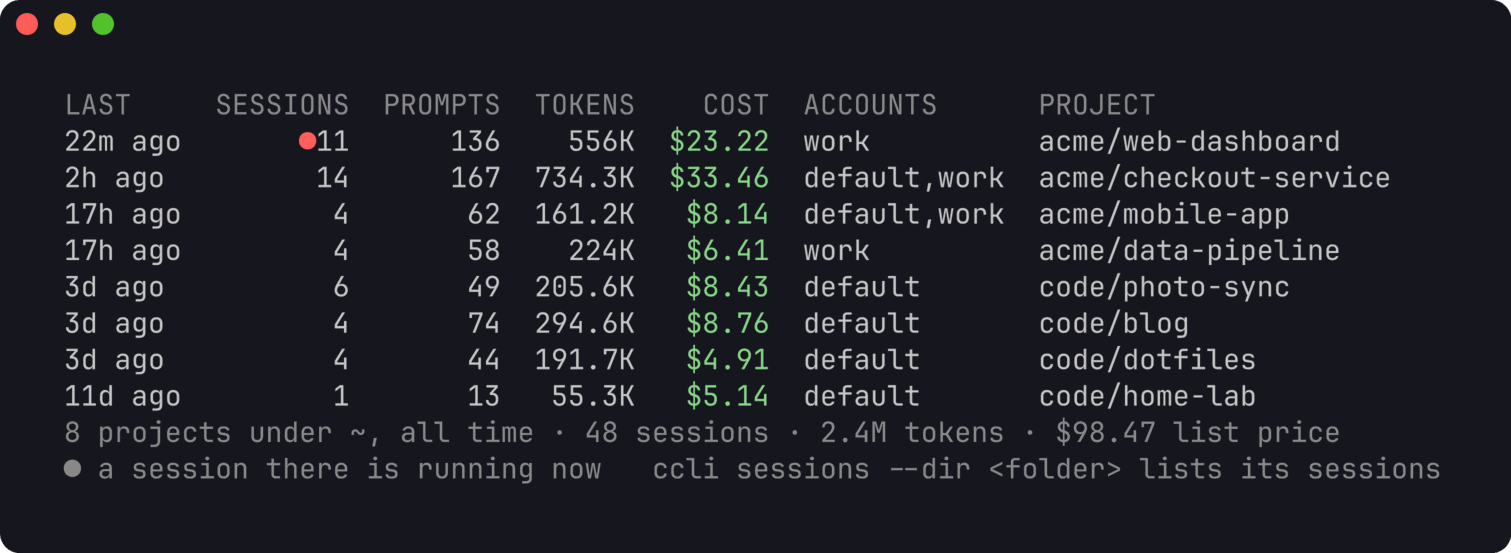
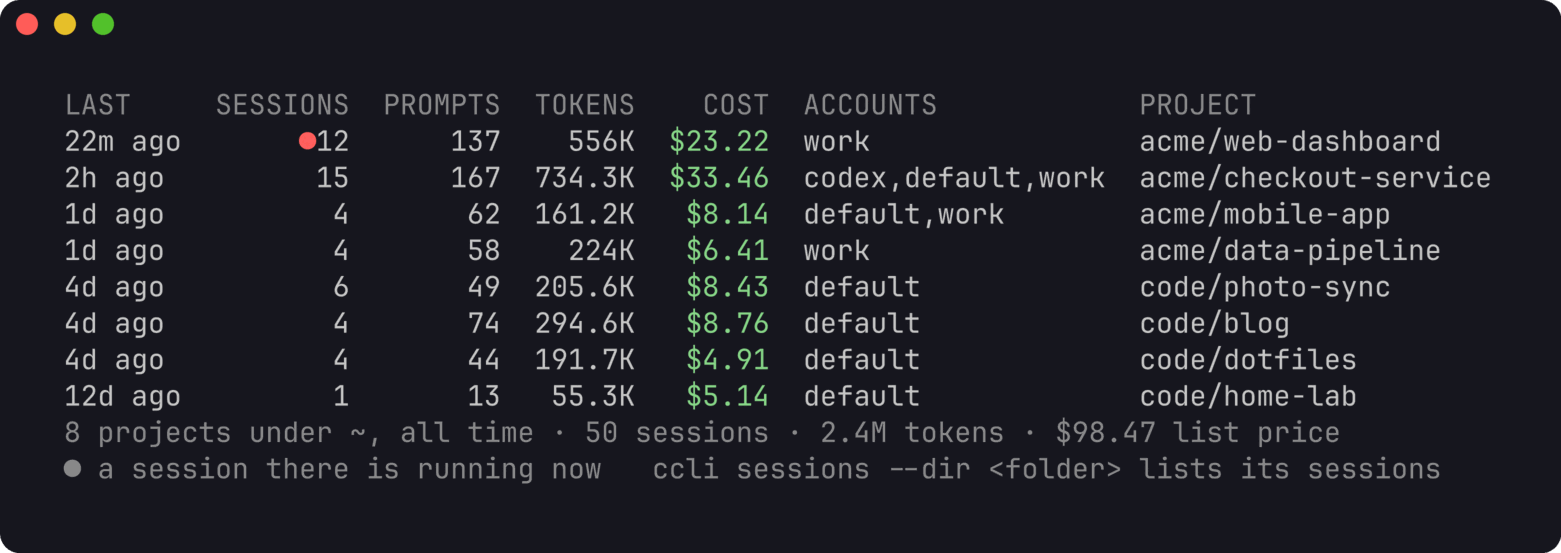
docs: describe ccli clean, with a screenshot from the demo home
The demo home gains two sessions that stopped at their first metadata
line, one whose prompt got no reply and an empty Codex thread, written
after every other session so the ids in the docs stay the same. The README,
tutorial and DESIGN.md describe clean and its rules; the projects sample and
image change with the demo home.

diff --git a/scripts/demo/main.go b/scripts/demo/main.go
@@ -219,8 +219,50 @@ func (g *gen) run(livePID int) error {
 		}))
 	}
 	g.codex()
+	g.empties()
 	fmt.Printf("wrote %d sessions under %s\n", len(all), g.home)
 	return nil
+}
+
+// empties writes sessions with nothing in them, for ccli clean: two that
+// stopped after their first metadata line, one whose prompt never got a
+// reply, and a Codex thread that never got a message. Each file carries the
+// time its session stopped, so it counts as idle. They draw from a source of
+// their own, so every session above keeps its id.
+func (g *gen) empties() {
+	outer := g.rng
+	g.rng = rand.New(rand.NewPCG(29, 31))
+	defer func() { g.rng = outer }()
+	for _, e := range []struct {
+		p      project
+		days   int
+		prompt string
+	}{
+		{projects[5], 12, ""},
+		{projects[0], 9, ""},
+		{projects[1], 4, "Can you check why the staging deploy is stuck?"},
+	} {
+		s := g.session(e.p, e.days)
+		body := g.line(map[string]any{"type": "permission-mode", "permissionMode": "default", "sessionId": s.id})
+		if e.prompt != "" {
+			body += g.line(map[string]any{"type": "user", "timestamp": ts(s.start), "sessionId": s.id, "cwd": s.cwd,
+				"promptSource": "typed", "message": map[string]any{"role": "user", "content": e.prompt}})
+		}
+		path := filepath.Join(g.dir(s.acct), "projects", key(s.cwd), s.id+".jsonl")
+		g.must(os.MkdirAll(filepath.Dir(path), 0o755))
+		g.must(os.WriteFile(path, []byte(body), 0o644))
+		g.must(os.Chtimes(path, s.start, s.start))
+	}
+	start := g.now.AddDate(0, 0, -6).Add(-3 * time.Hour)
+	id := g.uuid()
+	meta := g.line(map[string]any{"timestamp": ts(start), "type": "session_meta", "payload": map[string]any{
+		"id": id, "timestamp": ts(start), "cwd": filepath.Join(g.home, projects[0].dir), "originator": "codex_cli_rs",
+		"cli_version": "0.146.0", "model_provider": "openai", "source": "cli"}})
+	dir := filepath.Join(g.home, ".codex", "sessions", start.Format("2006/01/02"))
+	path := filepath.Join(dir, "rollout-"+start.Format("2006-01-02T15-04-05")+"-"+id+".jsonl")
+	g.must(os.MkdirAll(dir, 0o755))
+	g.must(os.WriteFile(path, []byte(meta), 0o644))
+	g.must(os.Chtimes(path, start, start))
 }
 
 type session struct {

diff --git a/README.md b/README.md
@@ -6,8 +6,9 @@ separate accounts: the same conversation is not merged across them. It shows
 what each session used and what that cost, turn by turn: every prompt you
 typed, what the model did with it, which subagents and workflow runs it
 started and what they cost. It also shows where your subscription limits
-stand, and it moves a Claude Code session from one account to another and
-back without mixing up whose usage is whose.
+stand, moves a Claude Code session from one account to another and back
+without mixing up whose usage is whose, and clears out sessions that hold
+nothing.
 
 ![ccli stats: totals, daily usage, projects, models, accounts, active hours, session shape and skills](docs/images/stats.png)
 
@@ -343,6 +344,33 @@ and forth. ccli records every byte range it copies into an account, and a
 response that came in with a copy never counts toward the account it was
 copied into. A forked session starts at $0 in its new account.
 
+### Clearing out empty sessions
+
+```sh
+ccli clean                           # list the empty sessions, then ask
+ccli clean --unanswered              # also sessions whose prompt never got a reply
+ccli clean --undo 20261020-201340    # put one run back
+```
+
+![ccli clean](docs/images/clean.png)
+
+A session is empty when it has no prompt, no reply, no tool call, no tokens
+or cost, no subagent or workflow run and no name, is not running, and was
+last active more than an hour ago (`--idle` changes that). `clean` prints the
+plan and asks before it changes anything. Without a terminal to ask on, or
+with `--json`, it only prints the plan, and `--apply` skips the question.
+
+Nothing is deleted. A Claude Code transcript moves to
+`~/.local/share/ccli/archive/clean/<stamp>/<account>/`, with the same checks
+`move` uses, and leaves the index. Sessions of Codex, Pi and Cursor are hidden
+instead, because ccli does not write their homes. Each session is checked
+again just before it moves, and one that started running or changed since
+the plan stays where it is. `--undo <stamp>` puts the transcripts back and
+brings the hidden sessions back.
+
+`--unanswered` is opt in, because those sessions hold a prompt you typed.
+`-a`, `--dir` and `--tool` narrow `clean` the way they narrow `sessions`.
+
 Every command takes `--json` and prints the same structures, for scripts and
 for a web view that can be added later on top of the same query layer. The
 tutorial has [examples with jq](docs/tutorial.md#script-it).
@@ -395,6 +423,7 @@ the usage page, as [How it counts](#how-it-counts) describes.
 | `ccli resume <id> [-a <acct> --sync]` | resume with that session's tool (`claude`, `codex`, `pi` or `agent`); `-a` is Claude Code only |
 | `ccli hide\|unhide <id>...` | leave sessions out of lists, or bring them back; totals still count them |
 | `ccli tag <id> <tag>` | label a session, shown next to its title; `--clear` removes the tag |
+| `ccli clean` | set aside empty sessions after asking: Claude Code transcripts go to ccli's archive, others are hidden; `--undo <stamp>` puts them back |
 | `ccli statusline -- <cmd>` | status line wrapper that records the rate limits |
 | `ccli index [--rebuild]` | update the index (every other command does this first) |
 
@@ -473,8 +502,9 @@ usage before it asks. After a failed read it uses what it has and waits five
 minutes before asking again, and with no IDE login it does not ask at all. `hide`, `tag`, `resume`, `diff`, `copy`, `move`,
 `fork`, `statusline` and `index` do not ask Cursor.
 
-Only `copy`, `move`, `fork` and `resume --sync` write into an account, and
-only the files of the session involved. `hide` and `tag` write only to ccli's
+Only `copy`, `move`, `fork`, `resume --sync` and `clean` write into an
+account, and only the files of the session involved: `clean` moves an empty
+Claude Code transcript into ccli's archive, and `clean --undo` moves it back. `hide` and `tag` write only to ccli's
 own index. `export --out` writes only the path you give, never inside an
 agent's home. A transcript that
 cannot be read is reported and retried on the next run.

diff --git a/DESIGN.md b/DESIGN.md
@@ -28,7 +28,10 @@ ccli is a reader. The only things it writes are:
   the session in the target account (`projects/<key>/<id>.jsonl`,
   `projects/<any key>/<id>/`, `file-history/<id>/`; a fork writes them under
   its new id), and for `move`, an archive of the source under
-  `$XDG_DATA_HOME/ccli/archive/` before the source files are removed.
+  `$XDG_DATA_HOME/ccli/archive/` before the source files are removed;
+- for `clean` only: an empty Claude Code session's files, moved from its
+  account into `$XDG_DATA_HOME/ccli/archive/clean/<stamp>/<account>/` with
+  a `manifest.json` of the run, and moved back by `clean --undo`.
 
 In a Codex home it reads only the rollout files under `sessions/` and
 `archived_sessions/`, and writes nothing itself (a `quota` live check starts
@@ -465,6 +468,8 @@ ccli copy|move --from a --to b [--project p] [--include missing,ahead] [--days N
 ccli fork <id> --to acct [--from acct]   copy under a new session id
 ccli resume <id> [-a acct [--sync]] [--print]   run claude --resume (or codex resume) with the right account and cwd
 ccli hide <id>... / unhide <id>...   leave sessions out of lists, or bring them back
+ccli clean [-a acct] [--dir folder] [--tool t] [--unanswered] [--idle 1h] [--apply]   set aside empty sessions
+ccli clean --undo <stamp>          put back what one clean run archived and hid
 ccli tag <id> <tag> / --clear       label a session in ccli, or remove the label
 ccli index [--rebuild]
 ```
@@ -487,6 +492,35 @@ Claude Code put them, so `claude --resume` and `ccli resume` keep working.
   them by id.
 - A session a Claude Code process is running is refused: its next line would
   show it again.
+
+## Cleaning empty sessions
+
+`clean` finds sessions that hold nothing and sets them aside once you agree.
+
+- A session is empty when it has no prompt, no reply, no tool call, no
+  tokens or cost, no subagent or workflow run, and no name from a person or
+  the tool, is not running, and was last active at least `--idle` (1h) ago.
+  A name means there is something ccli cannot see, such as a Cursor chat
+  whose messages it cannot read. `--unanswered` adds sessions whose prompts
+  never got a reply; it is opt in because those hold text a person typed.
+  Unused Cursor IDE drafts are left out, since lists already leave them out.
+- A transcript with no line that names its folder takes the folder another
+  session under the same project key recorded, so `--dir` finds it.
+- Without `--apply`, `clean` prints the plan and asks on a terminal. With no
+  terminal, or with `--json`, it changes nothing.
+- A Claude Code session moves to the archive with the same path checks as
+  `move`, transcript last, and its rows leave the index. A Claude Code
+  session whose transcript is already gone only leaves the index. Codex, Pi
+  and Cursor sessions are hidden, because ccli does not write their homes.
+  An already hidden one is left out of the plan.
+- Just before each change, the session is checked again: one that is
+  running, or whose transcript moved or changed size or time since the plan,
+  is left as it was, with a note. A failure stops the run, and the sessions
+  after it are marked not done.
+- `--undo <stamp>` moves the run's transcripts back (a path the account has
+  again stays in the archive) and unhides the sessions it hid. The index
+  picks the transcripts up at once. Each run's folder is named for the
+  second it started; a second run in the same second is refused.
 
 ## Tagging sessions
 

diff --git a/docs/tutorial.md b/docs/tutorial.md
@@ -76,10 +76,10 @@ the folder each started in, at or below the current folder, over all time:
 
 ```
 $ ccli projects ~ --depth 1
-LAST     SESSIONS  PROMPTS  TOKENS    COST  ACCOUNTS      PROJECT
-22m ago        33      423    1.7M  $71.22  default,work  acme
-3d ago         15      180  747.3K  $27.24  default       code
-2 projects under ~, all time · 48 sessions · 2.4M tokens · $98.47 list price
+LAST     SESSIONS  PROMPTS  TOKENS    COST  ACCOUNTS            PROJECT
+23m ago        35      424    1.7M  $71.22  codex,default,work  acme
+4d ago         15      180  747.3K  $27.24  default             code
+2 projects under ~, all time · 50 sessions · 2.4M tokens · $98.47 list price
 ccli sessions --dir <folder> lists a project's sessions
 ```
 
@@ -294,6 +294,40 @@ To see what you hid, use `ccli sessions --hidden` or `H` in `view`. Bring a
 session back with `ccli unhide <id>` or `u` in that list. A hidden session
 that you resume and use again shows again by itself. A session that is running
 cannot be hidden: hide it once it has ended.
+
+## Clear out empty sessions
+
+Sessions you opened and closed without asking anything, or that stopped
+before the first reply, add rows that say nothing. `ccli clean` finds them:
+
+```
+$ ccli clean
+LAST     ACCOUNT  ID        DO       PROJECT
+11d ago  default  f33442ad  archive  ~/code/photo-sync
+9d ago   work     5a9c2637  archive  ~/acme/checkout-service
+6d ago   codex    9e947588  hide     ~/acme/checkout-service
+Archive 2 sessions, hide 1 session? [y/N] y
+✓ 2 archived, 1 hidden, 0 forgotten
+Undo with: ccli clean --undo 20261020-201340
+```
+
+A session counts as empty when it has no prompt, no reply, no tool call, no
+tokens or cost, no subagents and no name, is not running, and has been idle
+for an hour or more. Claude Code transcripts move to ccli's archive under
+`~/.local/share/ccli/archive/clean/`; Codex, Pi and Cursor sessions are
+hidden, since ccli does not write into their homes. Nothing is deleted, and
+the run can be put back:
+
+```
+$ ccli clean --undo 20261020-201340
+Put back 2 transcripts and brought back 1 hidden session.
+```
+
+Sessions where you typed a prompt that never got an answer, often a run that
+failed to start, count only with `--unanswered`, because they hold your own
+text. `--dir .` limits the search to the current project and `--tool codex`
+to one agent. In a script, `ccli clean` without a terminal prints the plan
+and changes nothing; add `--apply` to carry it out.
 
 ## Tag sessions
 
